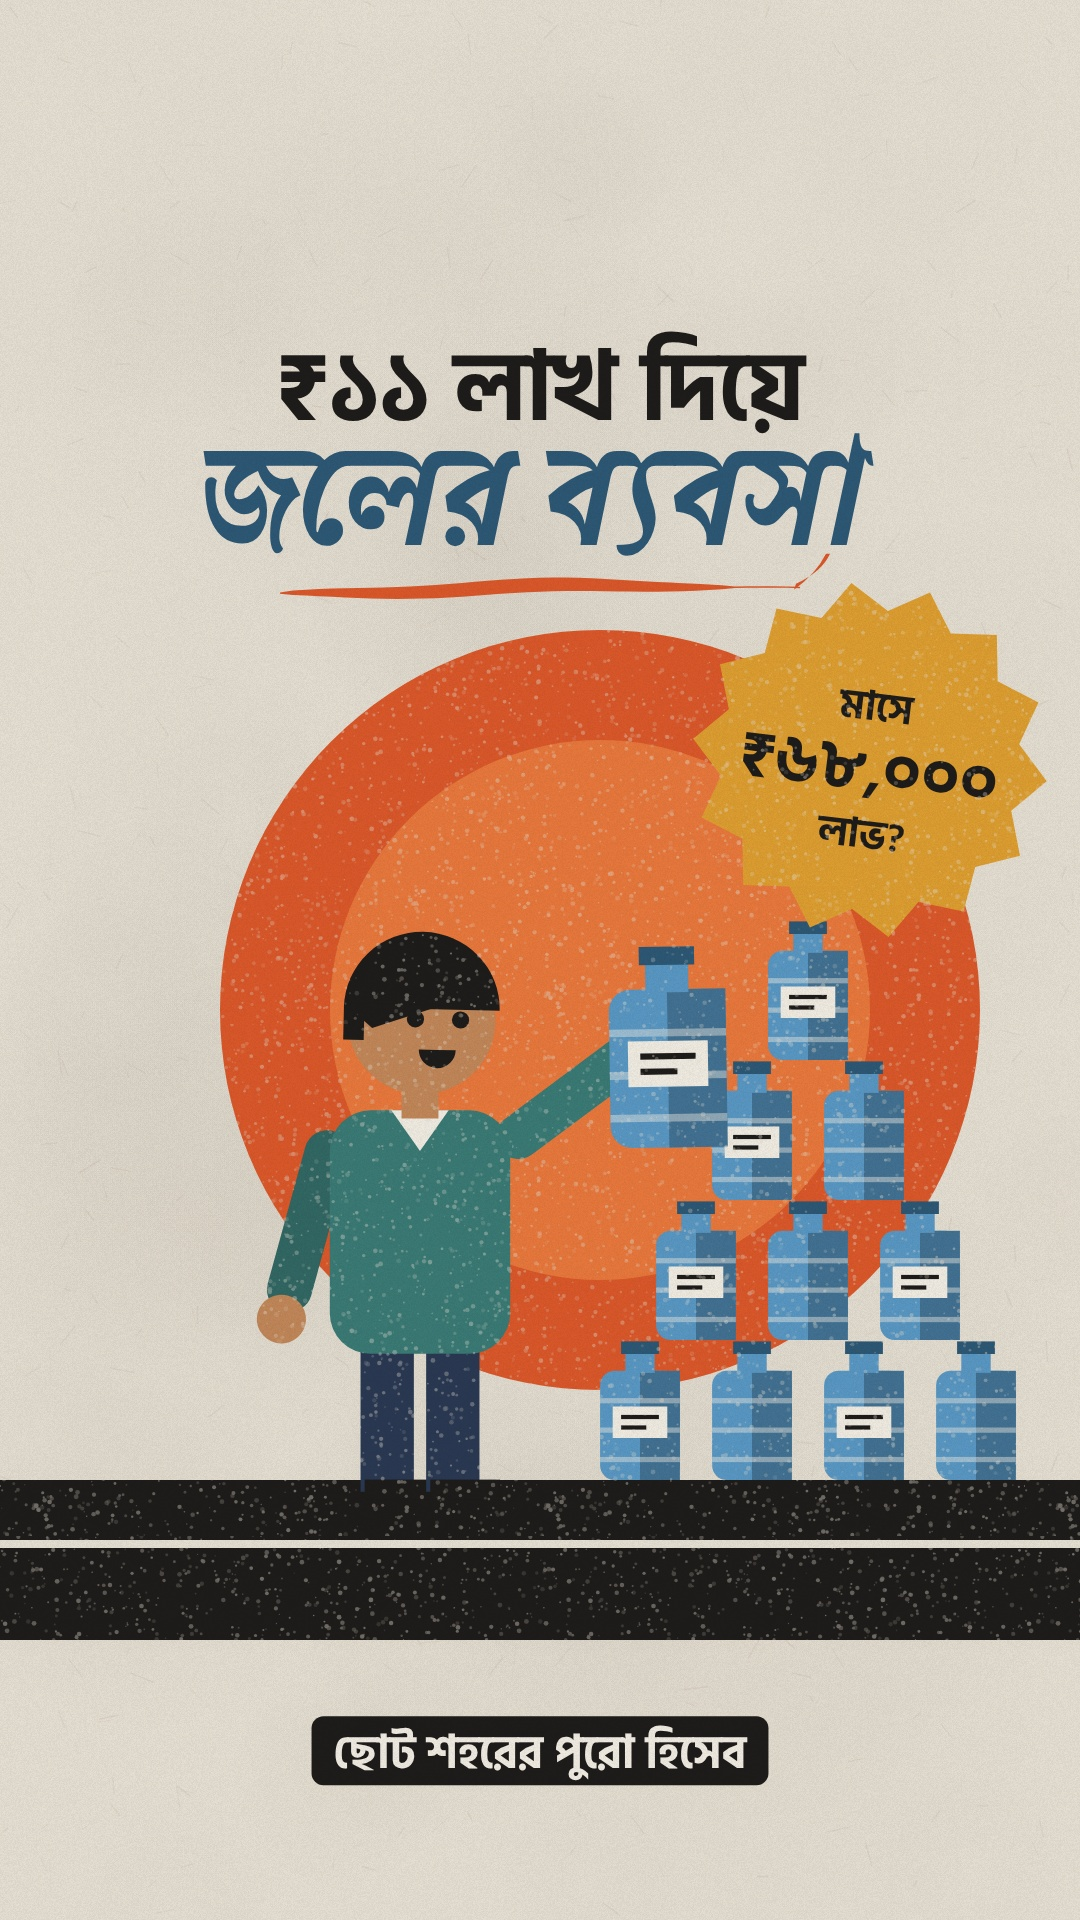
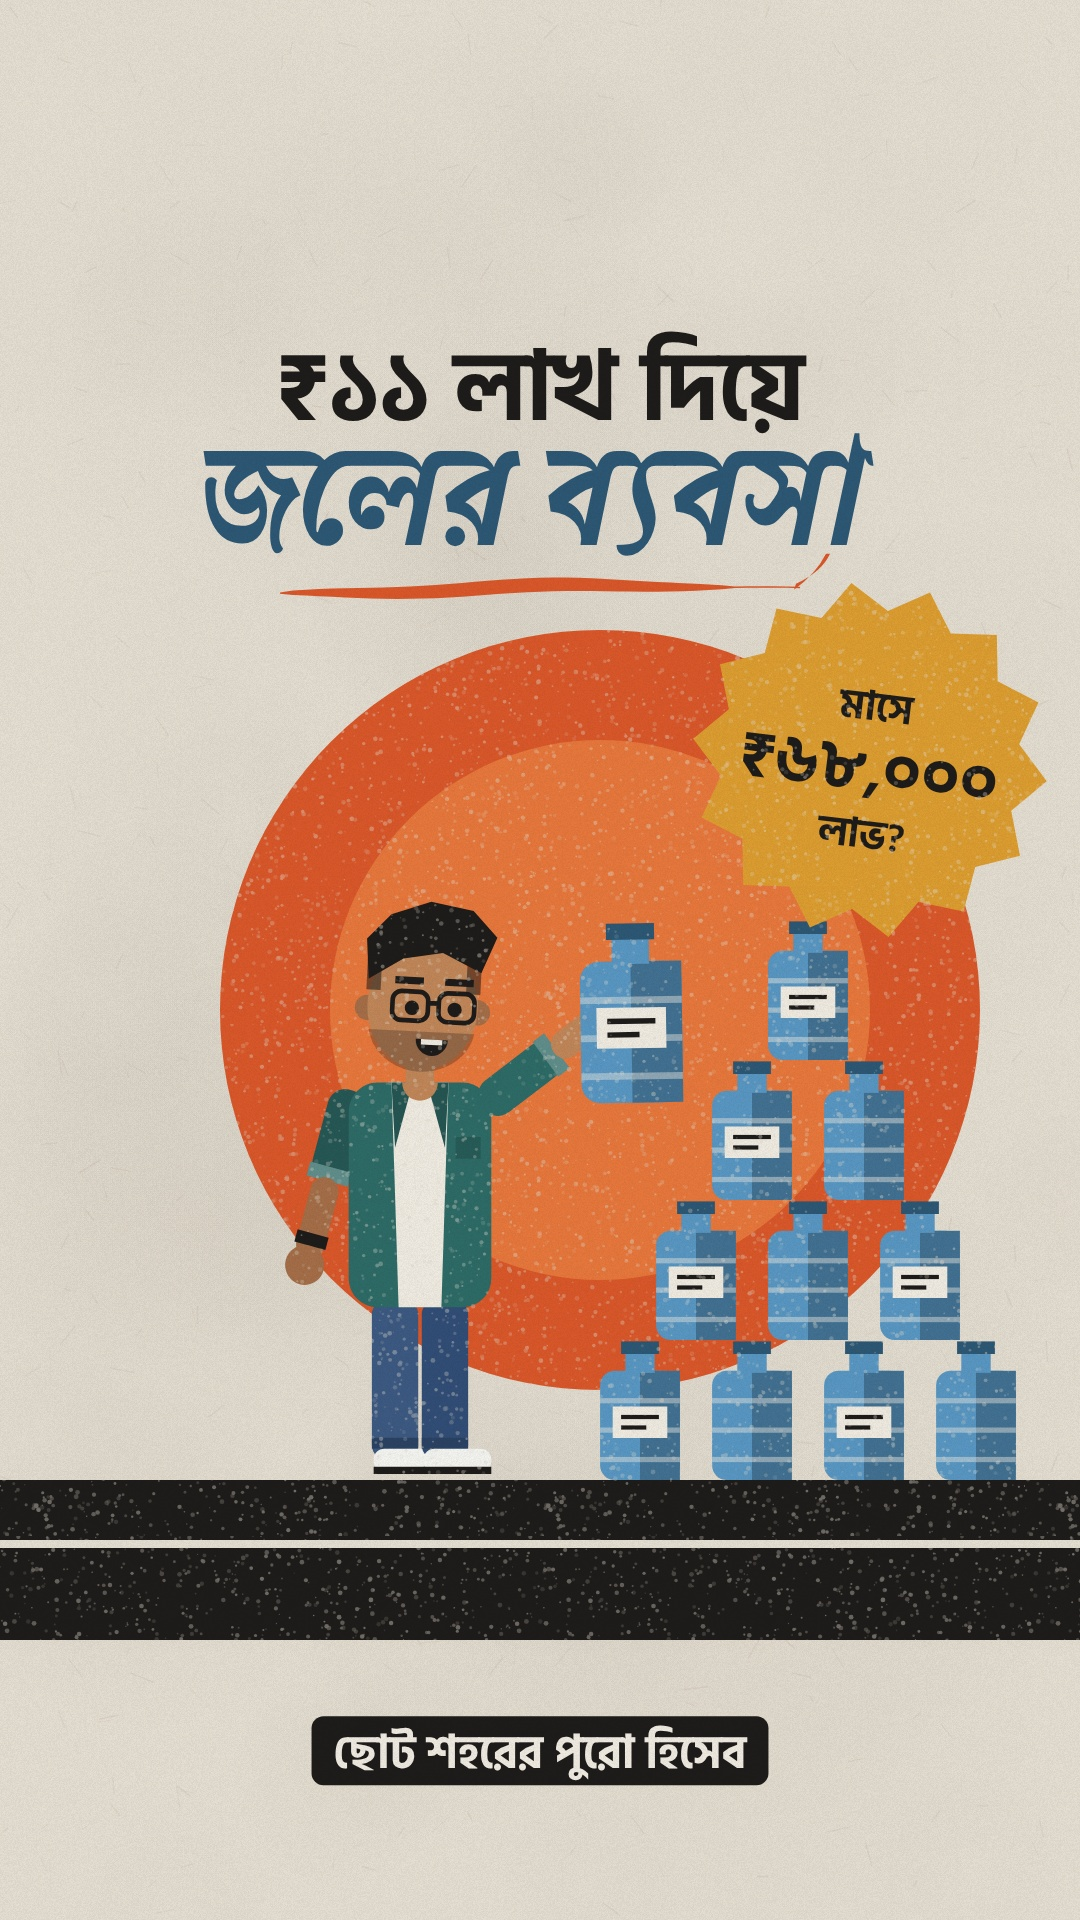
Modern 26-year-old Rahul: quiff, stubble, glasses, overshirt, jeans, sneakers
Claude-Session: https://claude.ai/code/session_01LrRKgZUbAWzSZxm4b8XdCu

Changed region(s): [[0.2444, 0.4688, 0.6722, 0.7812]]

diff --git a/water-business/film.js b/water-business/film.js
@@ -119,7 +119,67 @@ function person(g, x, y, s, o = {}) {
   g.restore();
   g.restore();
 }
-const rahul = (g, x, y, s, o = {}) => person(g, x, y, s, { shirt: C.teal, pants: C.navy, hair: 'short', ...o });
+// Rahul, 26: modern look — undercut quiff, light stubble, thin glasses, open overshirt over a tee, jeans, white sneakers, watch.
+// Same animation vocabulary as person(): walk, idle bounce with squash/stretch, waves, head tilt, blinks, brows, mouth.
+function rahul(g, x, y, s, o = {}) {
+  const sk = '#C68A5B', skD = '#A9714A', over = o.shirt && o.shirt !== C.teal ? o.shirt : '#2F6E6A', tee = C.cream, jeans = '#3E5C86', jeansD = '#33507A', f = o.face ?? 1, t = o.t ?? 0;
+  g.save(); g.translate(x, y); g.scale(s, s);
+  const w = o.walk != null ? Math.sin(o.walk) : 0, bob = o.walk != null ? Math.abs(Math.cos(o.walk)) * 5 : 0;
+  const idle = o.walk == null ? 1 : 0, br = Math.sin(t * 2.1 + x * 0.01);
+  g.translate(0, -bob);
+  if (idle) { const hop = (1 - Math.cos(t * 3.4 + x * 0.02)) * 0.5; g.translate(0, -hop * 6); g.scale(1 + (0.5 - hop) * 0.025, 1 - (0.5 - hop) * 0.035 + br * 0.008); }
+  // legs: slim jeans + white sneakers
+  for (const [lx, sg] of [[-14, 1], [14, -1]]) {
+    g.save(); g.translate(lx, -94); g.rotate(w * 0.5 * sg);
+    rrect(g, -13, 0, 26, 88, 8, sg > 0 ? jeans : jeansD); rect(g, -13, 76, 26, 6, '#2C4467');
+    rrect(g, -15 + (f > 0 ? 3 : -11), 82, 38, 13, 6, '#FBFBF7'); rect(g, -15 + (f > 0 ? 3 : -11), 92, 38, 4, C.ink);
+    g.restore();
+  }
+  // arms: rolled overshirt sleeve + forearm; watch on the left wrist
+  const arm = (sx, ang, front) => {
+    g.save(); g.translate(sx, -204); g.rotate(ang);
+    rrect(g, -11, -6, 22, 52, 10, front ? over : mixc(over, '#000000', 0.18)); rect(g, -12, 38, 24, 8, mixc(over, '#FFFFFF', 0.25));
+    rrect(g, -8, 44, 16, 46, 8, front ? sk : skD); if (!front) rect(g, -9, 76, 18, 7, C.ink);
+    circ(g, 0, 94, 11, front ? sk : skD);
+    if (front && o.hold) { g.translate(0, 98); o.hold(g); }
+    g.restore();
+  };
+  const sway = idle ? Math.sin(t * 1.6 + x * 0.02) * 0.07 : 0;
+  if (idle && o.armR == null) { const cyc = (t + x * 0.003) % 5.5, wave = cyc < 1.6 ? Math.sin(Math.PI * cyc / 1.6) : 0; o = { ...o, armR: -2.3 * eo(wave * 1.4) + Math.sin(t * 14) * 0.25 * wave }; }
+  const aL = (o.armL ?? 0) + (o.walk != null ? w * 0.55 : 0) + sway, aR = (o.armR ?? 0) - (o.walk != null ? w * 0.55 : 0) - sway;
+  arm(-40, aL, false);
+  // torso: tee + open overshirt with lapels and a chest pocket
+  rrect(g, -40, -214, 80, 124, 16, over);
+  poly(g, [[-16, -214], [16, -214], [12, -90], [-12, -90]], tee);
+  poly(g, [[-16, -214], [-4, -214], [-14, -178]], mixc(over, '#000000', 0.2)); poly(g, [[16, -214], [4, -214], [14, -178]], mixc(over, '#000000', 0.2));
+  rect(g, 20, -184, 14, 12, mixc(over, '#000000', 0.15));
+  half(g, 0, -214, 10, sk, 0, Math.PI);
+  arm(40, aR, true);
+  // head
+  rect(g, -8, -226, 16, 14, sk);
+  g.save(); g.translate(0, -226); g.rotate(idle ? Math.sin(t * 1.1 + x * 0.03) * 0.09 : Math.sin(t * 7) * 0.04); g.translate(0, 226 - (idle ? Math.max(0, Math.sin(t * 3.4 + x * 0.02)) * 3 : 0));
+  circ(g, -31, -254, 7, skD); circ(g, 31, -254, 7, skD);                       // ears
+  g.beginPath(); g.ellipse(0, -256, 31, 35, 0, 0, TAU); g.fillStyle = sk; g.fill();
+  g.save(); g.globalAlpha *= 0.28; g.beginPath(); g.ellipse(0, -246, 30, 26, 0, 0.15, Math.PI - 0.15); g.fillStyle = C.ink; g.fill(); g.restore();  // stubble
+  // hair: faded sides + swept quiff
+  g.save(); g.globalAlpha *= 0.55; rect(g, -32, -284, 8, 20, C.ink); rect(g, 24, -284, 8, 20, C.ink); g.restore();
+  poly(g, [[-31, -270], [-33, -292], [-20, -306], [2, -314], [26, -310], [38 * f > 0 ? 40 : 36, -296], [32, -276], [10, -286], [-12, -282]], C.ink);
+  // face
+  const ex = f * 6, blink = (Math.floor((t + x * 0.01) * 10) % 37) === 0;
+  if (blink) { rect(g, ex - 17, -256, 10, 3, C.ink); rect(g, ex + 7, -256, 10, 3, C.ink); }
+  else { circ(g, ex - 12, -255, 4, C.ink); circ(g, ex + 12, -255, 4, C.ink); }
+  g.strokeStyle = C.ink; g.lineWidth = 2.6; g.beginPath(); g.roundRect(ex - 23, -264, 20, 16, 5); g.roundRect(ex + 3, -264, 20, 16, 5); g.moveTo(ex - 3, -258); g.lineTo(ex + 3, -258); g.stroke();  // glasses
+  const lift = Math.max(0, Math.sin(t * 1.3 + x * 0.05)) ** 6 * 6;
+  rect(g, ex - 22, -272 - lift, 16, 4, C.ink); rect(g, ex + 6, -272 - lift, 16, 4, C.ink);
+  let m = o.mouth || 'smile';
+  if (m === 'smile' && ((t + x * 0.01) % 4.2) < 0.5) m = 'o';
+  if (m === 'smile') { half(g, ex, -238, 9, C.ink, 0, Math.PI); rect(g, ex - 6, -238, 12, 3, C.cream); }
+  else if (m === 'o') circ(g, ex, -234, 6, C.ink);
+  else if (m === 'sad') { g.strokeStyle = C.ink; g.lineWidth = 3.5; g.beginPath(); g.arc(ex, -226, 9, Math.PI * 1.2, Math.PI * 1.8); g.stroke(); }
+  else rect(g, ex - 8, -236, 16, 3.5, C.ink);
+  g.restore();
+  g.restore();
+}
 
 // ---------------------------------------------------------------- objects
 function jar(g, x, y, s = 1, o = {}) { // y = bottom
@@ -607,7 +667,7 @@ function introArt(L, t) {
   const row = (n, y, x0, r) => { for (let i = 0; i < n; i++) { const b = Math.abs(Math.sin(t * 3 + i + r)) * 8; jar(L, x0 + i * 112, y - b * (r === 0 ? 0 : 1), 1.05, { label: i % 2 === 0 }); } };
   row(4, 1480, 640, 0); row(3, 1340, 696, 1); row(2, 1200, 752, 2); row(1, 1060, 808, 3);
   rect(L, 0, 1480, W, 6, C.ink);
-  person(L, 420, 1480, 2.05, { shirt: C.teal, pants: C.navy, hair: 'short', t: t + 0.3, armR: -2.2 + Math.sin(t * 4) * 0.12, armL: 0.25, mouth: 'smile',
+  rahul(L, 420, 1480, 1.8, { t: t + 0.3, armR: -2.2 + Math.sin(t * 4) * 0.12, armL: 0.25, mouth: 'smile',
     hold: (gg) => { gg.rotate(2.2); jar(gg, 0, 60, 0.75, { label: 1 }); } });
   L.save(); L.translate(870, 760); L.rotate(0.12 + Math.sin(t * 2.5) * 0.06); const k = 1 + Math.sin(t * 5) * 0.04; L.scale(k, k);
   L.fillStyle = C.mustard; L.beginPath(); for (let i = 0; i < 28; i++) { const r = i % 2 ? 150 : 178, a = i * TAU / 28 + t * 0.3; L.lineTo(Math.cos(a) * r, Math.sin(a) * r); } L.closePath(); L.fill();
@@ -653,7 +713,7 @@ export function thumb(g) {
   rect(L, 0, 1480, W, 160, C.ink);
   rect(L, 0, 1540, W, 8, C.paper);
   // hero: Rahul, proud, holding a jar
-  person(L, 420, 1500, 2.05, { shirt: C.teal, pants: C.navy, hair: 'short', t: 0.5, armR: -2.2, armL: 0.25, mouth: 'smile',
+  rahul(L, 420, 1480, 1.8, { t: 0.5, armR: -2.2, armL: 0.25, mouth: 'smile',
     hold: (gg) => { gg.rotate(2.2); jar(gg, 0, 60, 0.75, { label: 1 }); } });
   // money sticker
   L.save(); L.translate(870, 760); L.rotate(0.12);
